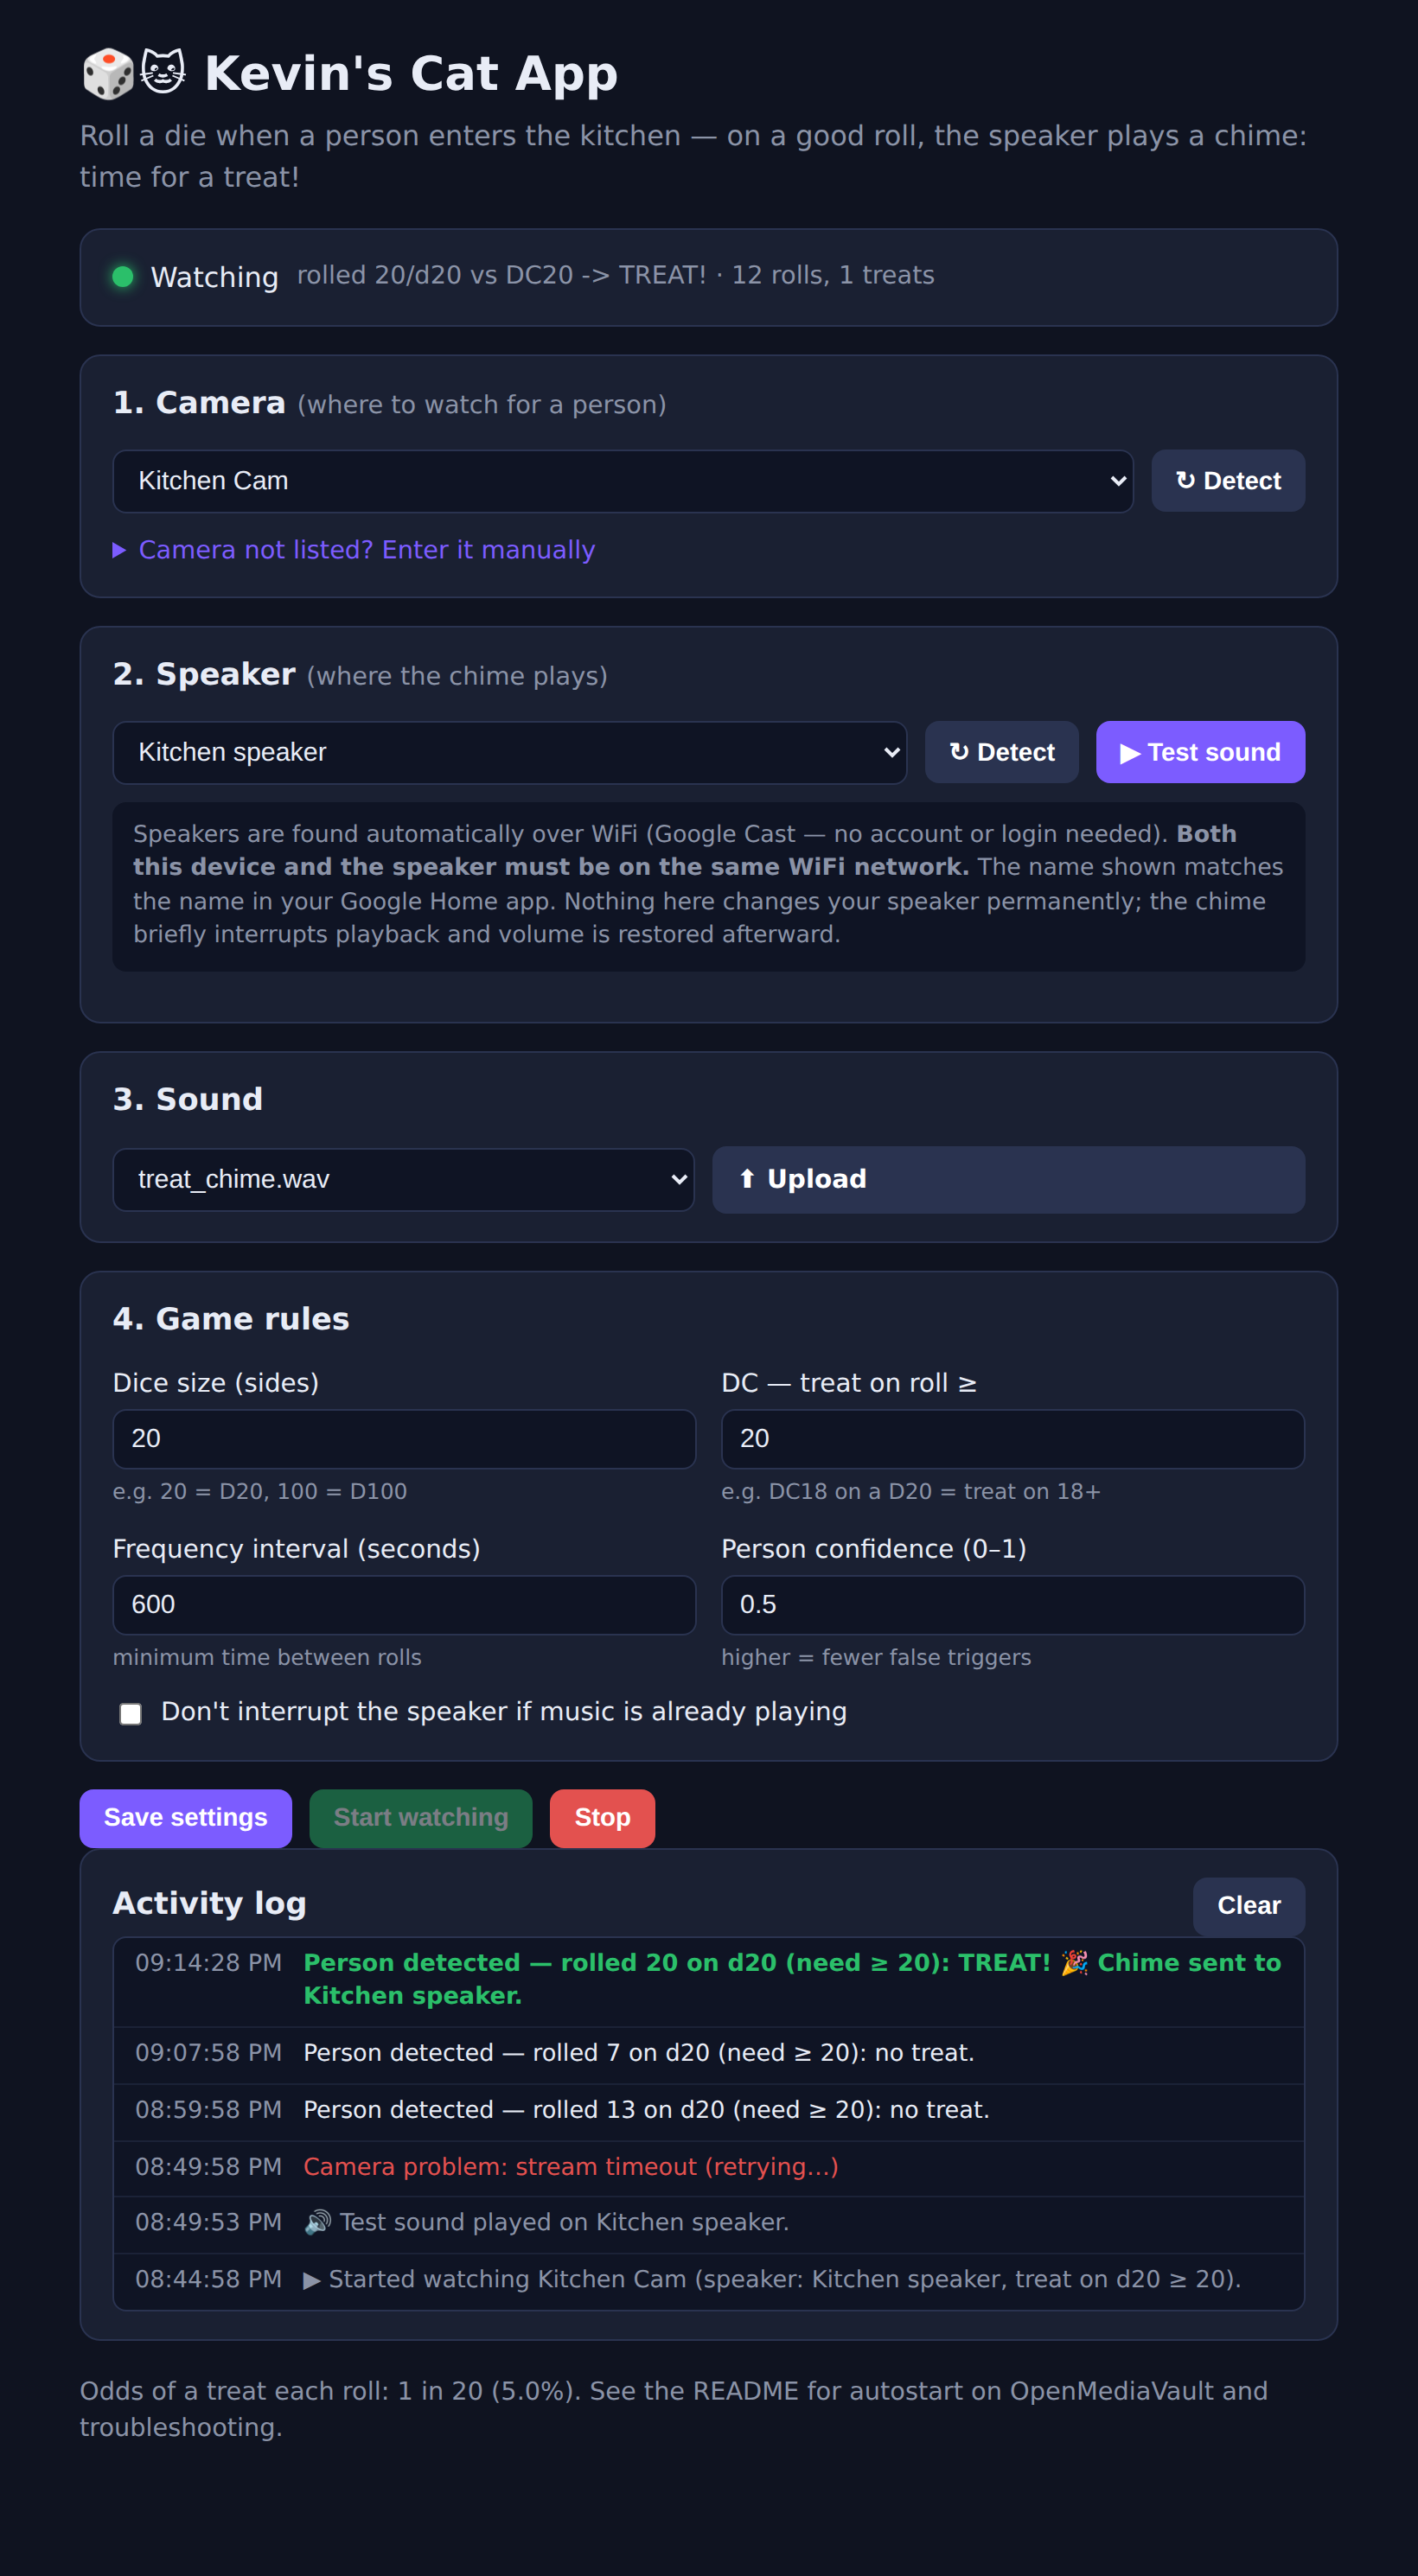
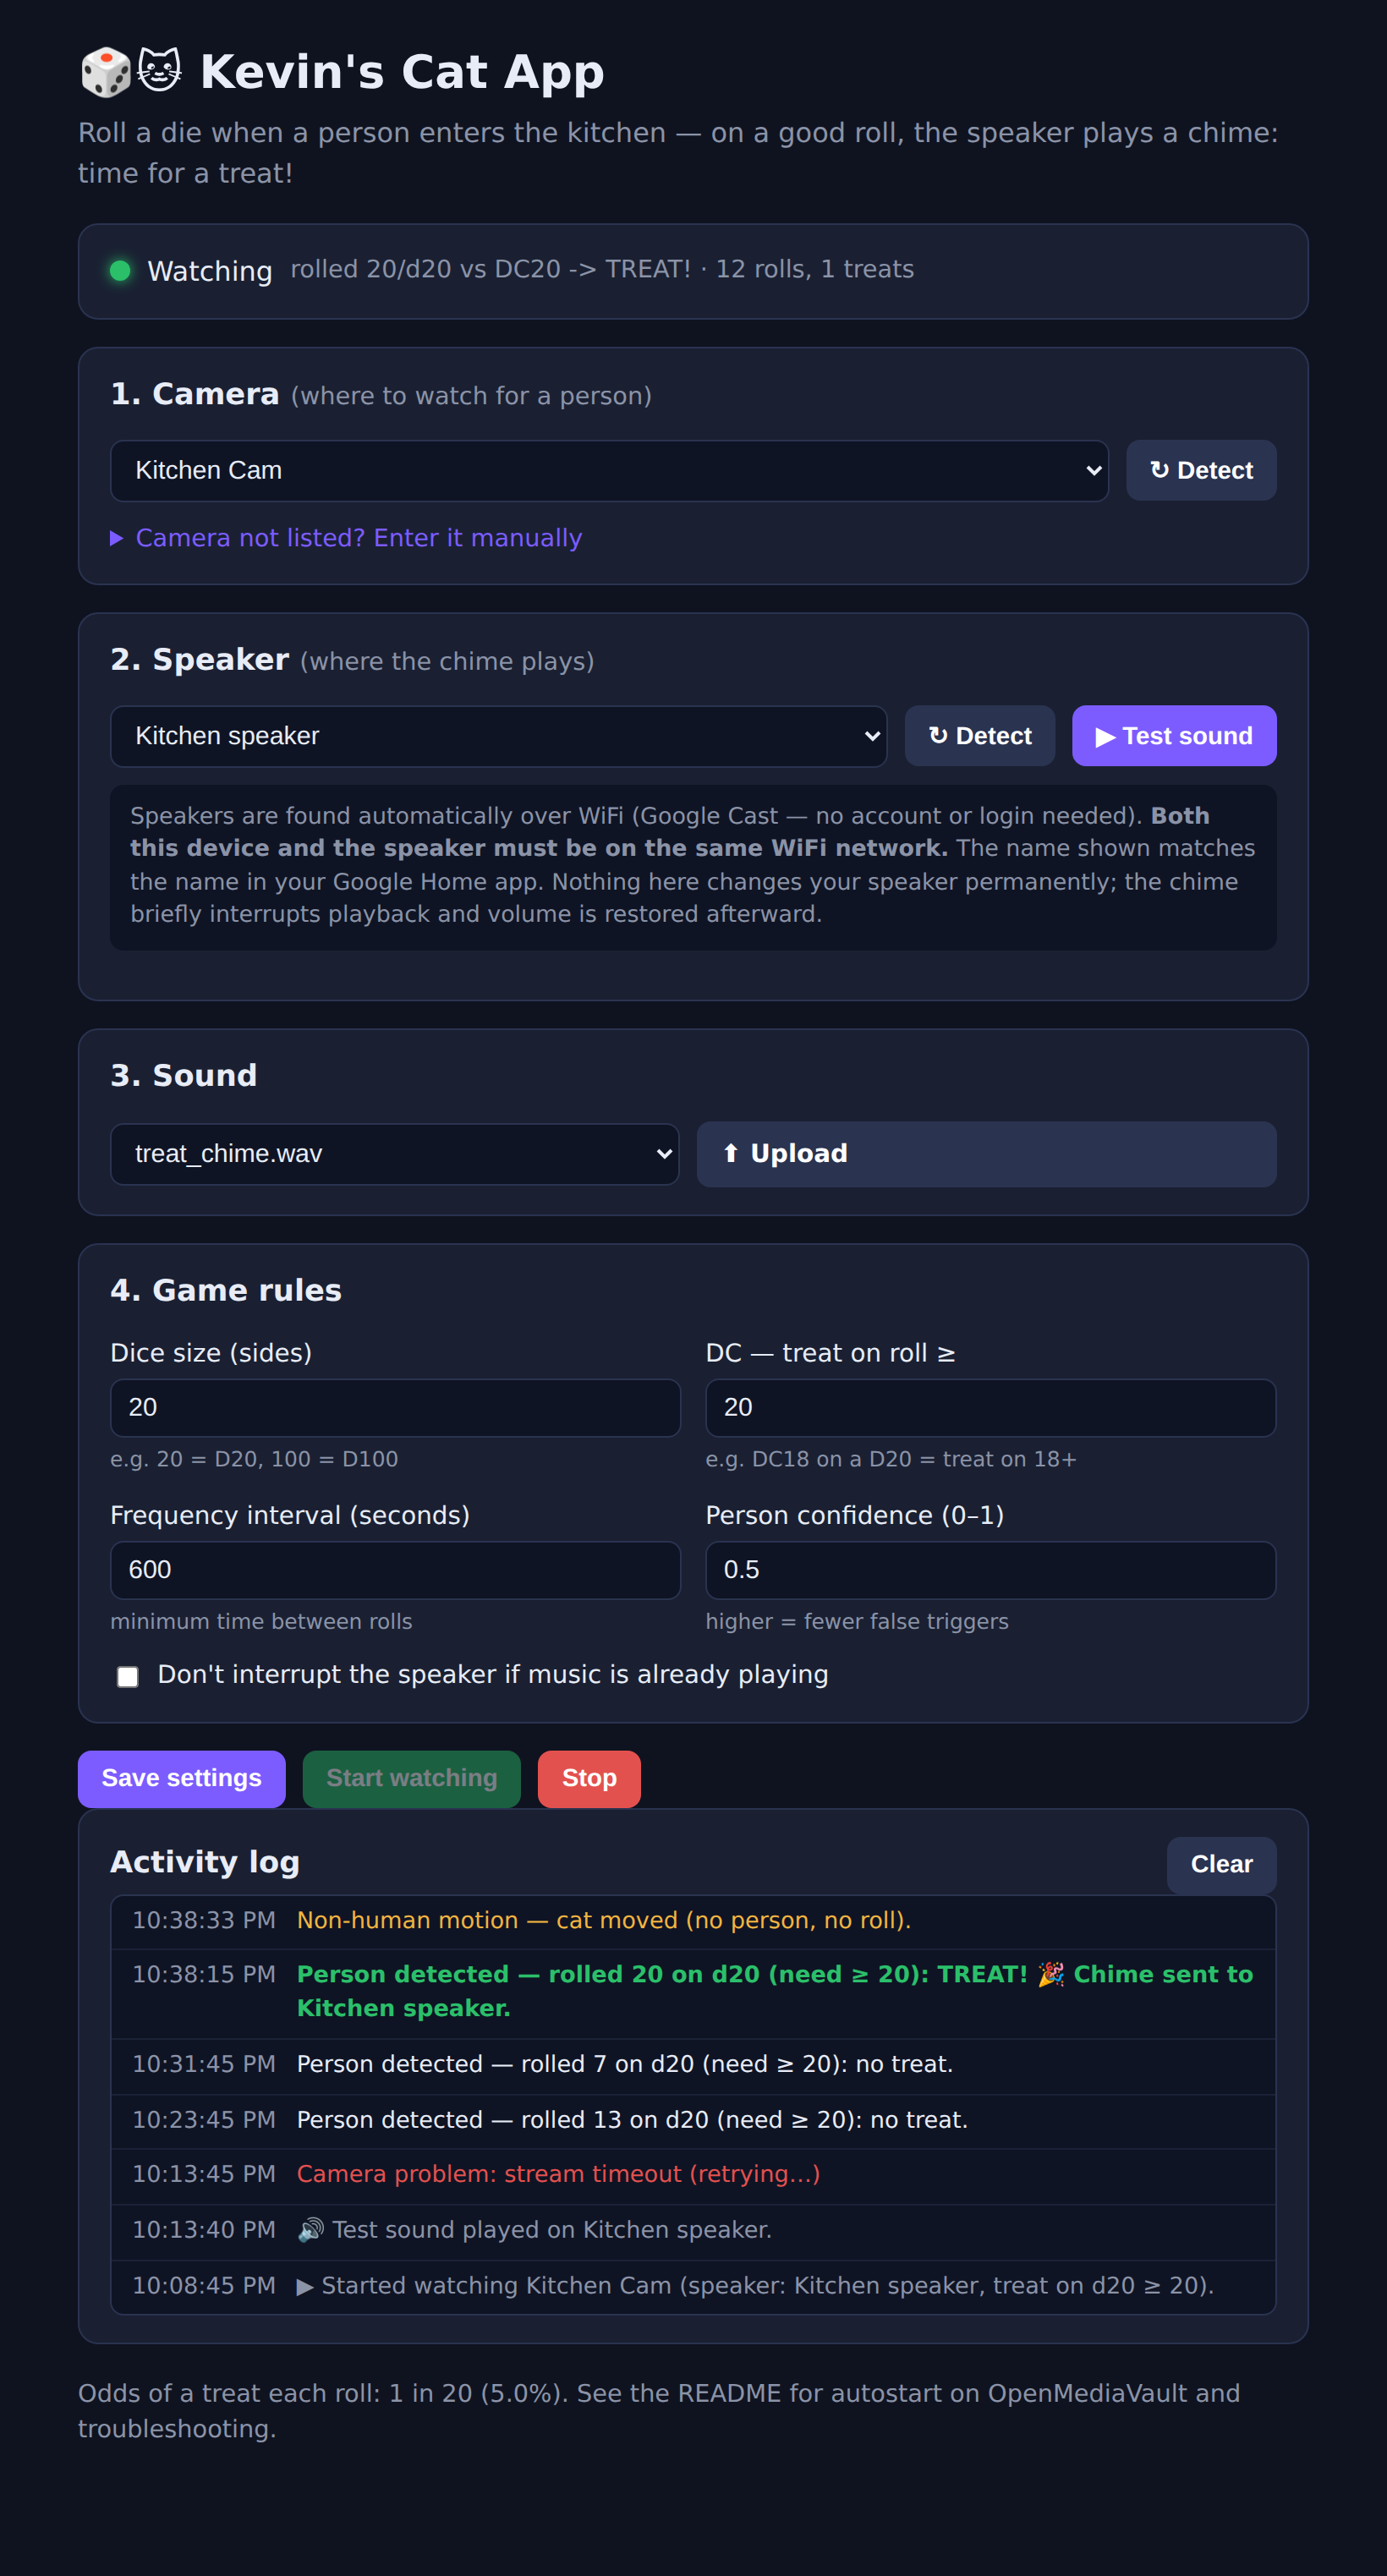
Fix broken detection model and log non-human motion
The bundled caffemodel was a training snapshot (mobilenet_iter_73000) whose
BatchNorm layers don't match the deploy prototxt, so cv2.dnn loaded it without
error but every detection scored 0 — person detection never actually worked.
Replace it with the matching MobileNetSSD_deploy weights + prototxt. Measured
on 170 PennFudanPed pedestrian images: 99.4% detected at confidence 0.5, with 0
cats misread as people.

Also surface non-human motion: read_and_detect now returns a FrameOutcome
(motion / person / labels), and the loop logs a throttled "Non-human motion —
<thing> moved" entry (new 'motion' kind, amber in the GUI) so you can see when
it's just the cats. Add tests/test_detection_accuracy.py with bundled sample
photos as a regression guard, fix the model README's re-fetch instructions, and
refresh docs.

Claude-Session: https://claude.ai/code/session_01VF1g6JuE5fcpCskKmpDJh3

diff --git a/d20app/static/style.css b/d20app/static/style.css
@@ -105,4 +105,5 @@ footer { margin-top: 20px; }
 .log-msg { flex: 1; word-break: break-word; }
 .log-treat .log-msg { color: var(--go); font-weight: 600; }
 .log-error .log-msg { color: var(--stop); }
+.log-motion .log-msg { color: var(--warn); }
 .log-info .log-msg { color: var(--muted); }

diff --git a/d20app/detector.py b/d20app/detector.py
@@ -18,6 +18,7 @@ from __future__ import annotations
 
 import os
 import time
+from dataclasses import dataclass, field
 
 # Make OpenCV's FFmpeg backend behave like VLC/ffplay for RTSP cameras:
 #   * rtsp_transport;tcp — use TCP (retransmitted, in-order packets) instead of
@@ -53,6 +54,15 @@ CAFFEMODEL = os.path.join(_MODELS_DIR, "mobilenet_ssd.caffemodel")
 
 class CameraError(RuntimeError):
     """The camera stream could not be opened or read (bad URL, auth, network)."""
+
+
+@dataclass
+class FrameOutcome:
+    """What one processed frame contained."""
+
+    motion: bool             # did the cheap motion pre-filter trigger?
+    person: bool             # was a person detected above the threshold?
+    labels: tuple = ()       # other classes seen (e.g. ("cat",)), best score first
 
 
 _cv2_quieted = False
@@ -184,8 +194,8 @@ class PersonDetector:
         return frame[y:y + h, x:x + w]
 
     # -- inference -----------------------------------------------------------
-    def detect_in_frame(self, frame) -> bool:
-        """Run the net on a single BGR frame and return True if a person shows."""
+    def _class_scores(self, frame, floor: float) -> dict:
+        """Best confidence per object class (≥ ``floor``) for one BGR frame."""
         import cv2
 
         frame = self._crop(frame)
@@ -197,14 +207,30 @@ class PersonDetector:
         )
         net = self._ensure_net()
         net.setInput(blob)
-        detections = net.forward()
-        return person_in_detections(detections, self.confidence)
+        det = net.forward()
+        best: dict = {}
+        for i in range(det.shape[2]):
+            score = float(det[0, 0, i, 2])
+            cid = int(det[0, 0, i, 1])
+            if score >= floor and 0 <= cid < len(CLASSES):
+                name = CLASSES[cid]
+                if score > best.get(name, 0.0):
+                    best[name] = score
+        return best
 
-    def read_and_detect(self) -> bool:
-        """Grab one frame, apply the motion pre-filter, then detect.
+    def detect_in_frame(self, frame) -> bool:
+        """Return True if a person is present in ``frame`` above the threshold."""
+        scores = self._class_scores(frame, floor=min(0.3, self.confidence))
+        return scores.get("person", 0.0) >= self.confidence
 
-        Returns True only when a person is detected. Returns False on read
-        failure (caller may back off and retry).
+    def read_and_detect(self) -> FrameOutcome:
+        """Grab one frame, apply the motion pre-filter, then classify it.
+
+        Returns a :class:`FrameOutcome`. ``motion`` is False when nothing moved
+        (or a frame couldn't be read); when motion is seen, ``person`` says
+        whether a person cleared the threshold and ``labels`` lists the other
+        things seen (e.g. ``("cat",)``) so the caller can report *what* moved.
+        Raises :class:`CameraError` when the stream is really gone.
         """
         import cv2
 
@@ -220,13 +246,21 @@ class PersonDetector:
                     f"lost the camera stream {mask_credentials(self.source)} "
                     "(no frames received)"
                 )
-            return False
+            return FrameOutcome(motion=False, person=False)
         self._read_fails = 0
         self.frame_size = (frame.shape[1], frame.shape[0])
         gray = cv2.cvtColor(self._crop(frame), cv2.COLOR_BGR2GRAY)
         if not self._motion.update(gray):
-            return False
-        return self.detect_in_frame(frame)
+            return FrameOutcome(motion=False, person=False)
+
+        scores = self._class_scores(frame, floor=min(0.3, self.confidence))
+        person = scores.get("person", 0.0) >= self.confidence
+        labels = tuple(
+            name
+            for name, score in sorted(scores.items(), key=lambda kv: -kv[1])
+            if name != "person" and score >= self.confidence
+        )
+        return FrameOutcome(motion=True, person=person, labels=labels)
 
     def release(self) -> None:
         if self._cap is not None:

diff --git a/tests/test_detection_accuracy.py b/tests/test_detection_accuracy.py
@@ -1,0 +1,52 @@
+"""Regression test: the bundled model must detect people and ignore cats.
+
+This is the guard that would have caught the shipped-broken model (a training
+snapshot whose weights didn't match the prototxt, so detection scored 0 on
+everything). It runs the real PersonDetector over a few bundled real photos.
+
+Fixtures: tests/fixtures/people/ (PennFudanPed pedestrians, downscaled) and
+tests/fixtures/cats/ (ImageNet domestic cats, downscaled).
+"""
+
+import glob
+import os
+
+import cv2
+import pytest
+
+from d20app.detector import PersonDetector
+
+FIXTURES = os.path.join(os.path.dirname(__file__), "fixtures")
+PEOPLE = sorted(glob.glob(os.path.join(FIXTURES, "people", "*.jpg")))
+CATS = sorted(glob.glob(os.path.join(FIXTURES, "cats", "*.jpg")))
+
+
+def _detector():
+    return PersonDetector(source="unused", confidence=0.5)
+
+
+def test_fixtures_present():
+    assert PEOPLE, "no people fixtures found"
+    assert CATS, "no cat fixtures found"
+
+
+def test_people_are_detected():
+    """At least 65% of people images must trigger (we measure ~99% on 170)."""
+    det = _detector()
+    hits = sum(det.detect_in_frame(cv2.imread(p)) for p in PEOPLE)
+    rate = hits / len(PEOPLE)
+    assert rate >= 0.65, f"person recall too low: {hits}/{len(PEOPLE)}"
+
+
+def test_cats_do_not_trigger():
+    """No cat image may be detected as a person (the whole point of the app)."""
+    det = _detector()
+    for p in CATS:
+        assert not det.detect_in_frame(cv2.imread(p)), f"cat triggered person: {p}"
+
+
[email redacted]("path", PEOPLE)
+def test_each_person_reports_motion_person_outcome(path):
+    """detect_in_frame returns a real boolean True on these clear photos."""
+    det = _detector()
+    assert det.detect_in_frame(cv2.imread(path)) is True

diff --git a/d20app/loop.py b/d20app/loop.py
@@ -22,6 +22,9 @@ from .detector import PersonDetector, mask_credentials
 
 log = logging.getLogger("d20app.loop")
 
+# Don't log every frame of a wandering cat — at most one motion note this often.
+_MOTION_LOG_INTERVAL = 10.0
+
 
 @dataclass
 class Status:
@@ -122,9 +125,10 @@ class DetectionLoop:
         backoff = 1.0
         last_cam_error = ""        # so a flaky camera doesn't flood the log
         connected = False          # log once when the first frame actually reads
+        motion_gate = dice.RollGate(_MOTION_LOG_INTERVAL)   # throttle motion notes
         while not self._stop.is_set():
             try:
-                person = detector.read_and_detect()
+                outcome = detector.read_and_detect()
             except FileNotFoundError as exc:
                 self.status.last_error = str(exc)
                 self.activity.add("error", str(exc))
@@ -151,8 +155,20 @@ class DetectionLoop:
                 )
                 connected = True
 
-            if not person:
+            if not outcome.motion:
                 time.sleep(0.05)        # ~20 fps ceiling; cheap when idle
+                continue
+
+            # Motion, but not a person: report what moved (the cats!), throttled
+            # so a pacing pet doesn't flood the log.
+            if not outcome.person:
+                if motion_gate.allow():
+                    what = outcome.labels[0] if outcome.labels else "something"
+                    self.activity.add(
+                        "motion",
+                        f"Non-human motion — {what} moved (no person, no roll).",
+                    )
+                time.sleep(0.05)
                 continue
 
             result = dice.attempt_roll(gate, cfg.dice_sides, cfg.dc)

diff --git a/d20app/activitylog.py b/d20app/activitylog.py
@@ -23,7 +23,7 @@ _REPO_ROOT = os.path.dirname(_PKG_DIR)
 LOG_PATH = os.environ.get("D20_ACTIVITY_LOG", os.path.join(_REPO_ROOT, "activity.log"))
 
 # Entry kinds the GUI colour-codes by. Anything else is treated as "info".
-KINDS = ("info", "roll", "treat", "error")
+KINDS = ("info", "roll", "treat", "error", "motion")
 MAX_ENTRIES = 1000
 
 

diff --git a/d20app/models/README.md b/d20app/models/README.md
@@ -13,14 +13,25 @@ the app triggers on people while ignoring the cats. The class list lives in
 It runs through OpenCV's built-in `cv2.dnn` module — no PyTorch, no TensorFlow,
 no GPU, and no separate AI service.
 
+Measured accuracy (MobileNetSSD_deploy weights): **99.4%** of 170 PennFudanPed
+pedestrian images detected at confidence 0.5, with **0** false-positive people
+across a set of cat images.
+
 ## Re-fetching the weights
 
 If the `.caffemodel` is ever missing (e.g. a shallow clone that skipped large
-files), download the original VOC-trained weights and the matching prototxt:
+files), download the **deploy** weights **and** the **matching** deploy prototxt
+from the same source so the layer names line up:
 
 ```
 curl -L -o mobilenet_ssd.caffemodel \
-  https://raw.githubusercontent.com/chuanqi305/MobileNet-SSD/master/mobilenet_iter_73000.caffemodel
+  https://github.com/djmv/MobilNet_SSD_opencv/raw/master/MobileNetSSD_deploy.caffemodel
 curl -L -o deploy.prototxt \
-  https://raw.githubusercontent.com/PINTO0309/MobileNet-SSD-RealSense/master/caffemodel/MobileNetSSD/MobileNetSSD_deploy.prototxt
+  https://github.com/djmv/MobilNet_SSD_opencv/raw/master/MobileNetSSD_deploy.prototxt
 ```
+
+> ⚠️ Use the **deploy** caffemodel, not a training snapshot like
+> `mobilenet_iter_73000.caffemodel`. A training snapshot's BatchNorm layers
+> don't match a deploy prototxt, so `cv2.dnn` loads it without error but every
+> detection scores 0 — the model silently detects nothing. The regression test
+> `tests/test_detection_accuracy.py` guards against shipping such a mismatch.

diff --git a/README.md b/README.md
@@ -8,7 +8,8 @@ from a simple web page.
 
 - **No Docker, no Frigate, no cloud, no Google account.** Just Python.
 - **One setup script**, then everything is point-and-click in a browser.
-- **Live activity log** of every detection, roll, treat, and error — right in the page.
+- **Live activity log** of every roll, treat, error, and **non-human motion**
+  (so you can see when it's just the cats moving) — right in the page.
 - Runs happily on an **OpenMediaVault** NAS (or any computer on the same WiFi).
 
 ![The Kevin's Cat App web GUI](docs/gui.png)
@@ -82,7 +83,13 @@ Detection uses a small **MobileNet-SSD** neural network (bundled in
 `d20app/models/`, runs on CPU via OpenCV — no GPU, no extra services). It knows
 `person` and `cat` as separate categories, so it triggers on people and
 **ignores the cats**. A cheap motion check runs first so the network only fires
-when something actually moves, keeping CPU low.
+when something actually moves, keeping CPU low — and when that motion turns out
+**not** to be a person, it's noted in the Activity log (e.g. "*cat moved*").
+
+Measured on 170 real pedestrian images it detects a person **99.4%** of the time
+at the default confidence, with **no** cats mistaken for people. (See
+`tests/test_detection_accuracy.py`, which guards this with bundled sample
+photos.)
 
 ### Google Home integration
 